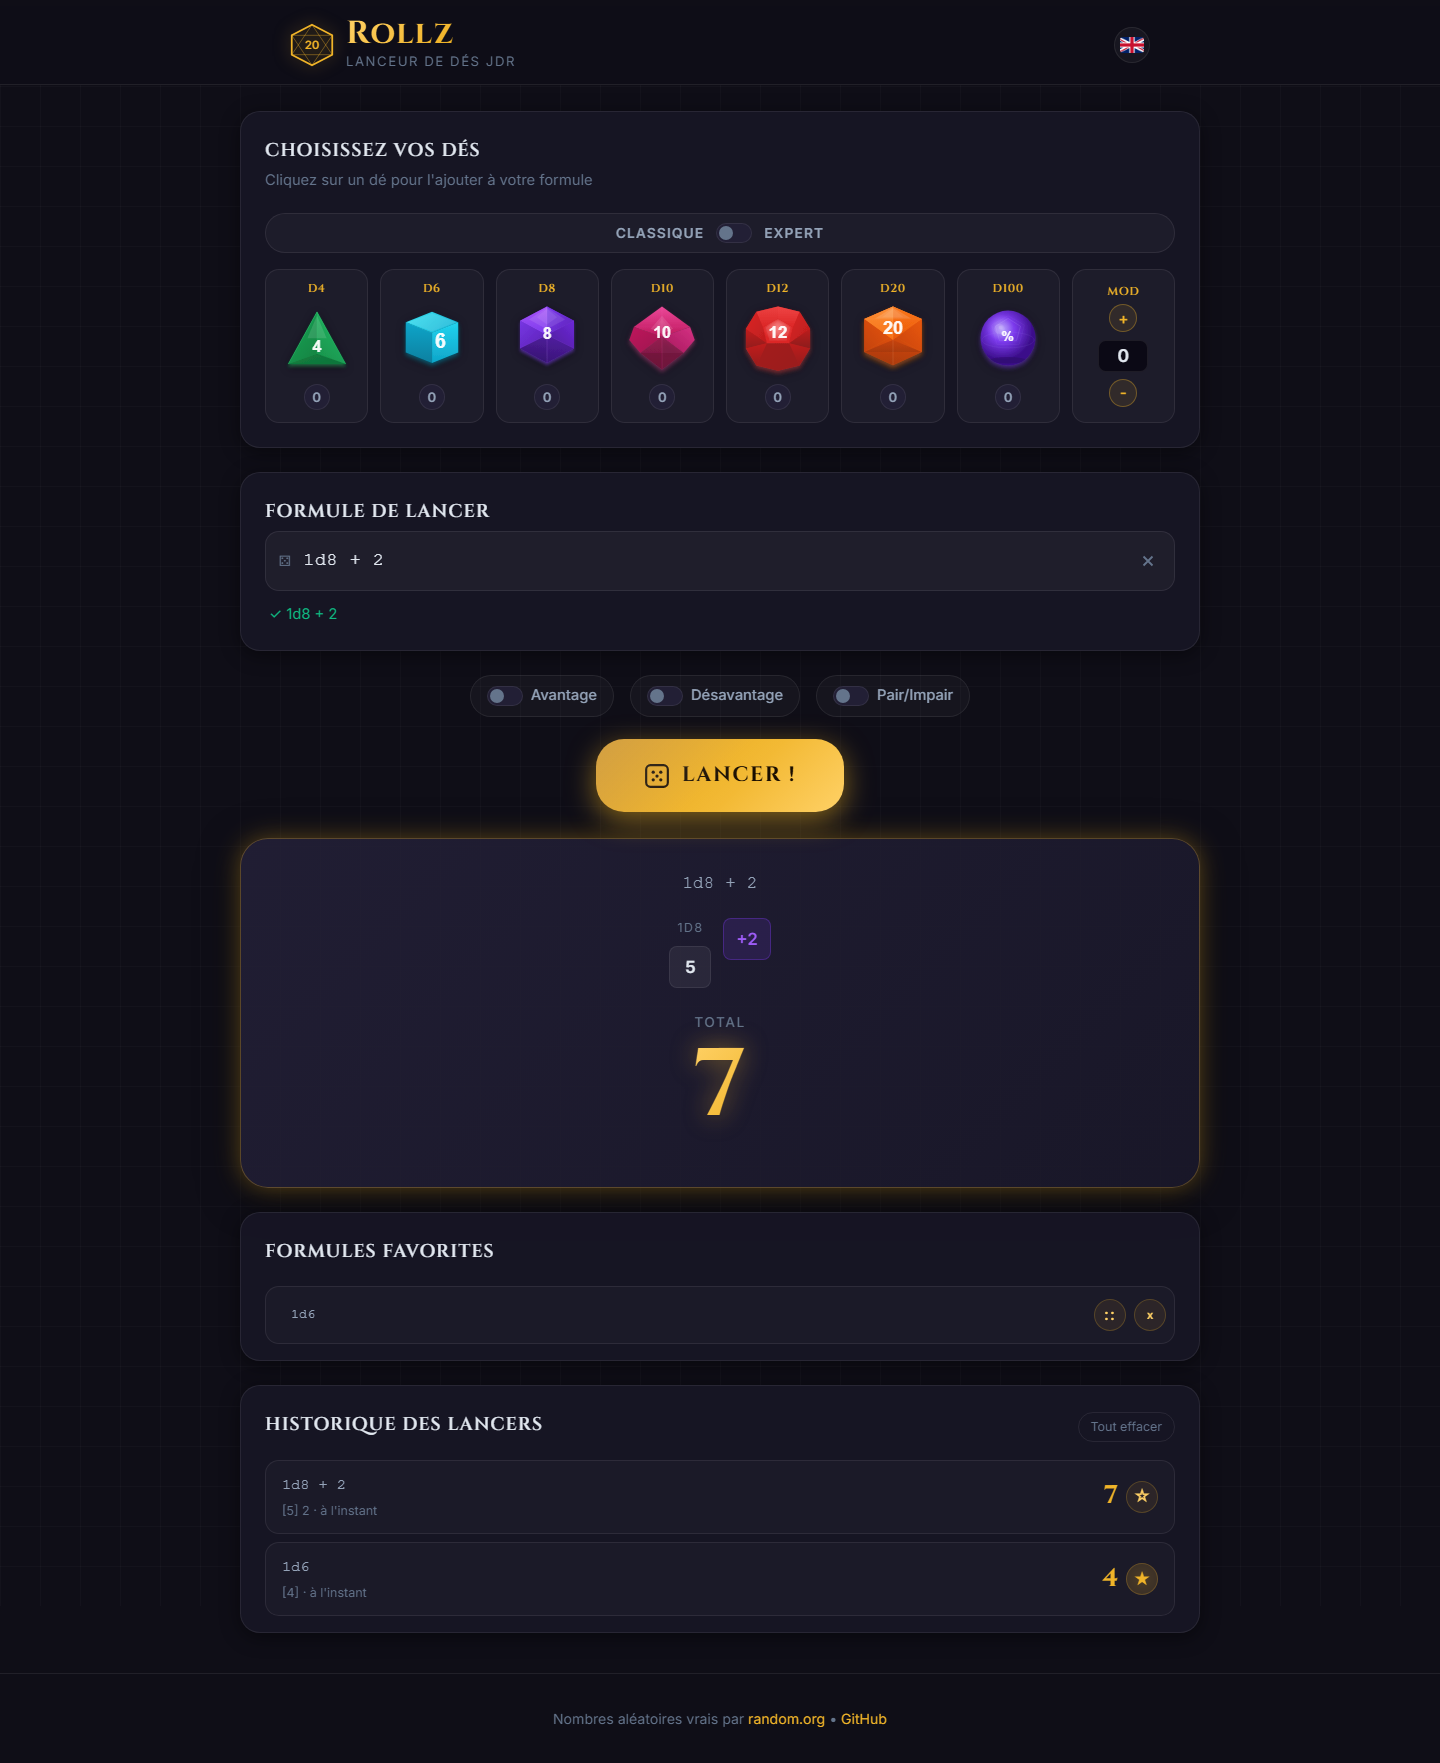
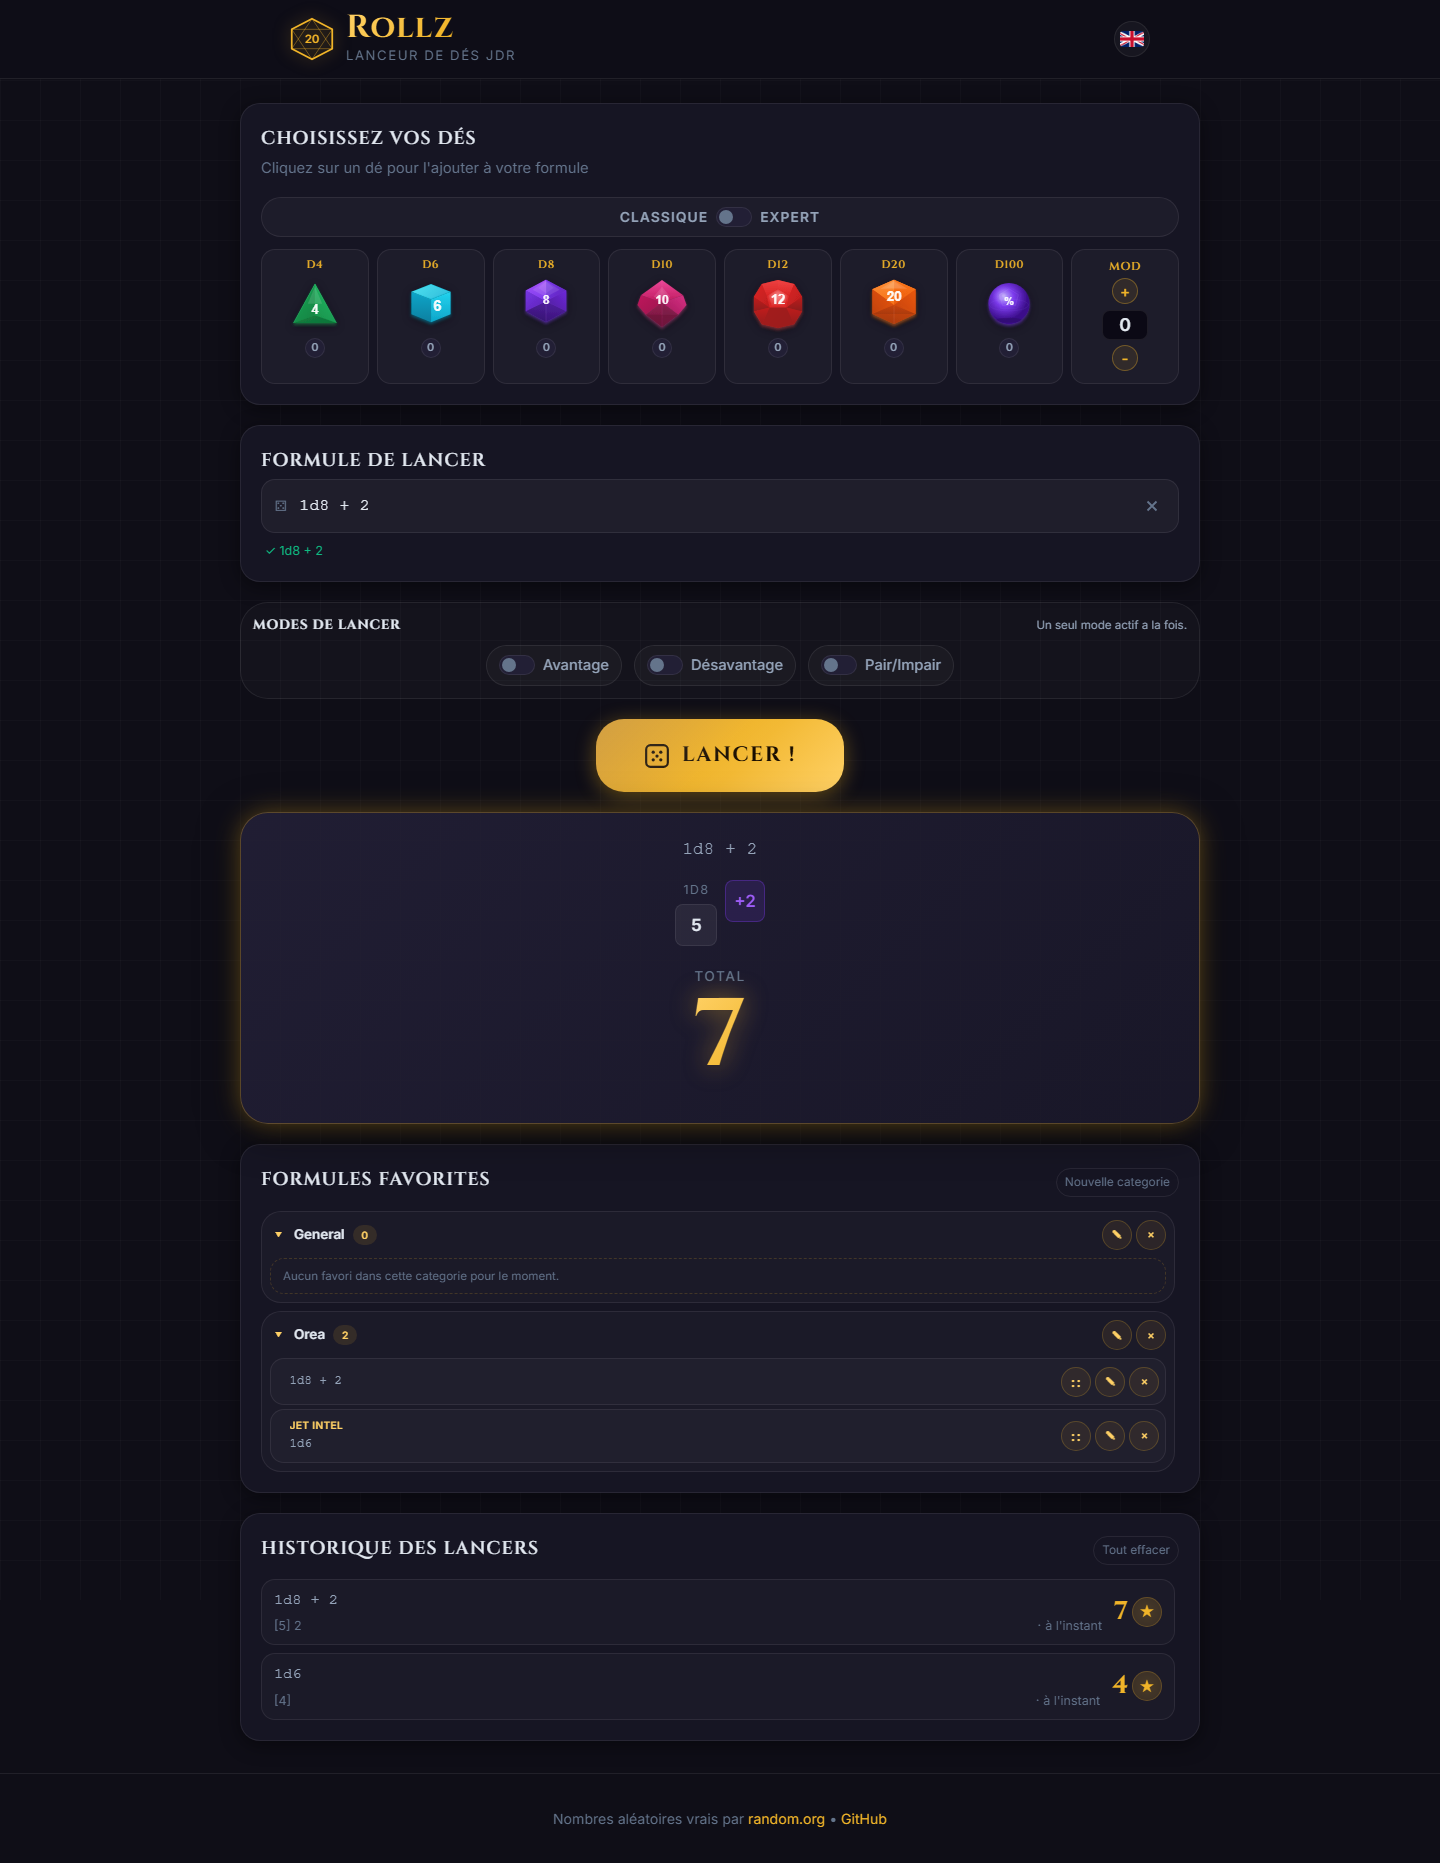
Refactor code structure for improved readability and maintainability

diff --git a/README.md b/README.md
@@ -12,6 +12,24 @@ User guide in English: [docs/WIKI_USER_GUIDE.md](docs/WIKI_USER_GUIDE.md)
 
 User guide in French: [docs/WIKI_UTILISATEUR.md](docs/WIKI_UTILISATEUR.md)
 
+### Screenshots
+
+Home and classic builder:
+
+![Rollz home screen](docs/images/guide-accueil.png)
+
+Expert builder:
+
+![Rollz expert mode](docs/images/guide-mode-expert.png)
+
+Favorite save modal:
+
+![Rollz favorite save modal](docs/images/guide-favori-modal.png)
+
+History and categorized favorites:
+
+![Rollz history and favorites](docs/images/guide-historique-favoris.png)
+
 ### Features
 
 - Classic dice formulas such as `2d6 + 4`, `1d20 - 2`, `3d8 + 1d4 + 5`
@@ -102,6 +120,11 @@ The application files live under the `app/` directory, so your local static serv
 Example: `npx http-server app`
 
 To refresh the user-guide screenshots locally, serve `app/` and run `node scripts/capture-user-guide-screens.mjs`.
+
+Recommended local command on Windows:
+
+- `cmd /c npx http-server app -p 8081 -c-1`
+- `node scripts/capture-user-guide-screens.mjs`
 
 ### GitHub Pages deployment
 
@@ -195,6 +218,24 @@ Rollz est un lanceur de dés JDR/TTRPG au style dark fantasy, conçu en HTML, CS
 
 Guide utilisateur complet : [docs/WIKI_UTILISATEUR.md](docs/WIKI_UTILISATEUR.md)
 
+### Captures d'écran
+
+Accueil et builder classique :
+
+![Accueil Rollz](docs/images/guide-accueil.png)
+
+Builder expert :
+
+![Mode expert Rollz](docs/images/guide-mode-expert.png)
+
+Modal de sauvegarde d'un favori :
+
+![Modal favori Rollz](docs/images/guide-favori-modal.png)
+
+Historique et favoris catégorisés :
+
+![Historique et favoris Rollz](docs/images/guide-historique-favoris.png)
+
 ### Fonctionnalités
 
 - Lancers classiques avec formules comme `2d6 + 4`, `1d20 - 2`, `3d8 + 1d4 + 5`
@@ -279,6 +320,13 @@ Le projet est statique : aucun build n'est nécessaire.
 Les fichiers de l'application se trouvent dans le dossier `app/`. Pour un serveur local, il faut donc servir ce dossier comme racine web.
 
 Exemple : `npx http-server app`
+
+Pour régénérer les captures du guide, sers `app/` puis exécute `node scripts/capture-user-guide-screens.mjs`.
+
+Commande recommandée sous Windows :
+
+- `cmd /c npx http-server app -p 8081 -c-1`
+- `node scripts/capture-user-guide-screens.mjs`
 
 ### Déploiement GitHub Pages
 

diff --git a/docs/WIKI_UTILISATEUR.md b/docs/WIKI_UTILISATEUR.md
@@ -265,6 +265,8 @@ Cliquer sur une entree de l'historique relance automatiquement cette formule ave
 Tu peux sauvegarder une formule depuis l'historique pour la retrouver rapidement.
 Au moment de l'enregistrement, Rollz te laisse choisir une categorie existante ou en creer une nouvelle, puis ajouter un label optionnel.
 
+![Modal de sauvegarde d'un favori](images/guide-favori-modal.png)
+
 Les favoris conservent :
 
 - la categorie choisie
@@ -285,7 +287,7 @@ Tu peux aussi :
 - renommer ou supprimer une categorie
 - replier une categorie pour gagner de la place
 - deplacer un favori dans une autre categorie par glisser-deposer
-- modifier le label d'un favori sans toucher a sa formule
+- modifier le label d'un favori avec le bouton crayon sans toucher a sa formule
 
 ![Historique et favoris](images/guide-historique-favoris.png)
 

diff --git a/docs/WIKI_USER_GUIDE.md b/docs/WIKI_USER_GUIDE.md
@@ -265,6 +265,8 @@ Clicking a history entry automatically rerolls that formula with its saved mode.
 You can save a formula from history for quick access later.
 When saving, Rollz lets you choose an existing category or create a new one, then add an optional label.
 
+![Favorite save modal](images/guide-favori-modal.png)
+
 Favorites preserve:
 
 - the chosen category
@@ -285,7 +287,7 @@ You can also:
 - rename or delete a category
 - collapse a category to save space
 - drag a favorite into another category
-- edit a favorite label without changing its formula
+- edit a favorite label with the pencil button without changing its formula
 
 ![History and favorites](images/guide-historique-favoris.png)
 
